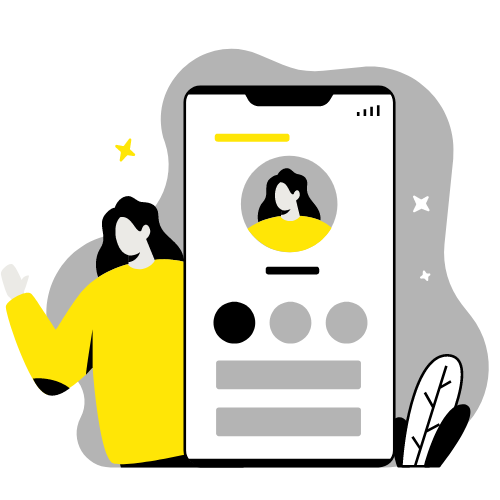
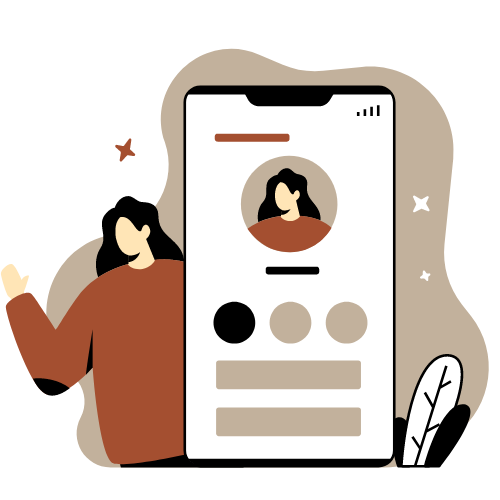
change image color

diff --git a/app/assets/stylesheets/confirmation.scss b/app/assets/stylesheets/confirmation.scss
@@ -1,5 +1,5 @@
 .confirmation {
-    padding: 50px 120px;
+    padding: 50px 150px;
   
     img {
       width: 100px;
@@ -44,7 +44,7 @@
           }
   
           .create {
-            background-color: #ffe606;
+            background-color: #e0b15e;
             color: black;
             text-decoration: none;
             border-radius: 20px;
@@ -68,7 +68,7 @@
       display: grid;
       grid-template-columns: 1fr 1fr;
       margin-top: 70px;
-      padding-left: 50px;
+      padding-left: 40px;
   
       .left {
         display: flex;
@@ -111,7 +111,7 @@
   
           input[type='submit'] {
             width: 100%;
-            background-color: #ffe606;
+            background-color: #e0b15e;
             height: 50px;
             border: none;
             outline: none;

diff --git a/app/assets/stylesheets/home.scss b/app/assets/stylesheets/home.scss
@@ -1,5 +1,5 @@
 .home {
-  padding: 50px 120px;
+  padding: 50px 150px;
 
   header {
     height: 50px;
@@ -51,7 +51,7 @@
         }
 
         .create {
-          background-color: #ffe606;
+          background-color: #e0b15e;
           color: black;
           text-decoration: none;
           border-radius: 20px;
@@ -73,8 +73,7 @@
   main {
     display: grid;
     grid-template-columns: 1fr 1fr;
-    margin-top: 30px;
-    padding: 0 50px;
+    margin-top: 20px;
 
     .left {
       margin-top: 100px;
@@ -98,7 +97,7 @@
         align-items: center;
 
         .get-started {
-          background-color: #ffe606;
+          background-color: #e0b15e;
           height: 60px;
           width: 180px;
           border-radius: 20px;

diff --git a/app/assets/stylesheets/login.scss b/app/assets/stylesheets/login.scss
@@ -1,5 +1,5 @@
 .login {
-  padding: 50px 120px;
+  padding: 50px 150px;
 
   img {
     width: 100px;
@@ -44,7 +44,7 @@
         }
 
         .create {
-          background-color: #ffe606;
+          background-color: #e0b15e;
           color: black;
           text-decoration: none;
           border-radius: 20px;
@@ -68,7 +68,6 @@
     display: grid;
     grid-template-columns: 1fr 1fr;
     margin-top: 70px;
-    padding-left: 50px;
 
     .left {
       display: flex;
@@ -119,7 +118,7 @@
 
         input[type='submit'] {
           width: 100%;
-          background-color: #ffe606;
+          background-color: #e0b15e;
           height: 50px;
           border: none;
           outline: none;

diff --git a/app/assets/stylesheets/sign-up.scss b/app/assets/stylesheets/sign-up.scss
@@ -1,5 +1,5 @@
 .sign-up {
-    padding: 50px 120px;
+    padding: 50px 150px;
   
     img {
       width: 100px;
@@ -44,7 +44,7 @@
           }
   
           .create {
-            background-color: #ffe606;
+            background-color: #e0b15e;
             color: black;
             text-decoration: none;
             border-radius: 20px;
@@ -137,7 +137,7 @@
   
           input[type='submit'] {
             width: 100%;
-            background-color: #ffe606;
+            background-color: #e0b15e;
             height: 50px;
             border: none;
             outline: none;

diff --git a/app/assets/stylesheets/payment_form.scss b/app/assets/stylesheets/payment_form.scss
@@ -80,7 +80,7 @@
                 color: #c66017;
                 border: 1px solid #c66017;
                 border-radius: 10px;
-                padding: 15px 20px;
+                padding: 15px 40px;
                 cursor: pointer;
 
                 &:hover {

diff --git a/spec/system/users/admin_spec.rb b/spec/system/users/admin_spec.rb
@@ -69,7 +69,7 @@ RSpec.describe "Admin", type: :system do
     
     first(".post").click
     
-    expect(page).to have_text("Sample")
+    expect(page).to have_text("Example")
     
     first(".edit-post-button").click
     
@@ -89,7 +89,7 @@ RSpec.describe "Admin", type: :system do
   
       first(".post").click
   
-      expect(page).to have_text("Sample")
+      expect(page).to have_text("Example")
   
       first(".delete-post-button").click
   
@@ -103,7 +103,7 @@ RSpec.describe "Admin", type: :system do
 
     first(".post").click
 
-    expect(page).to have_text("Sample")
+    expect(page).to have_text("Example")
 
     first(".delete-comment-button").click
 
